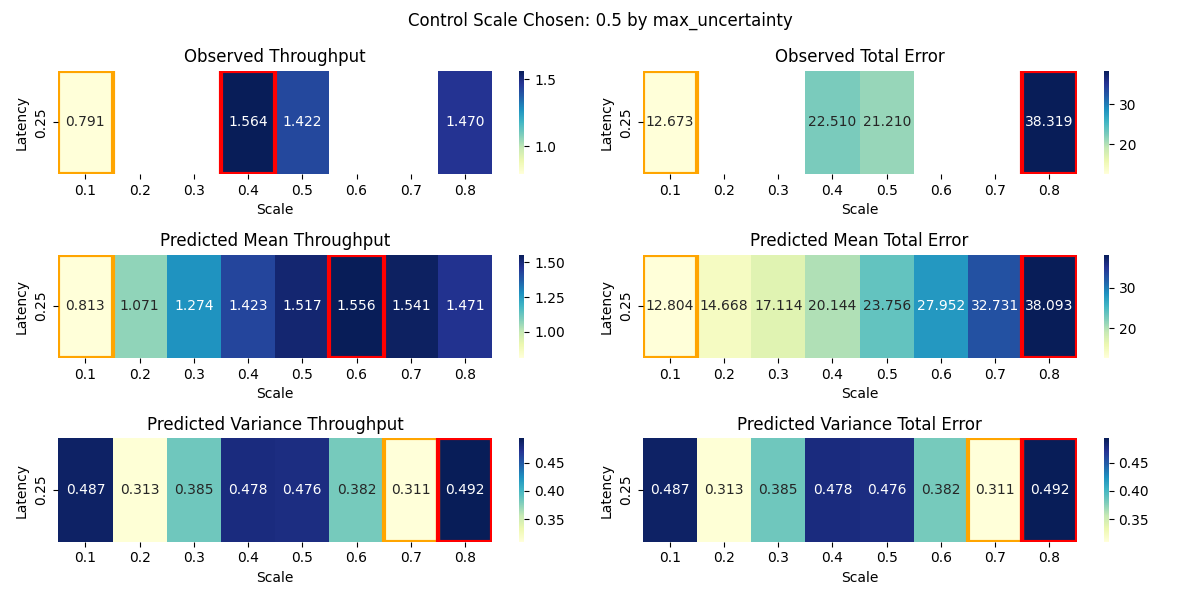
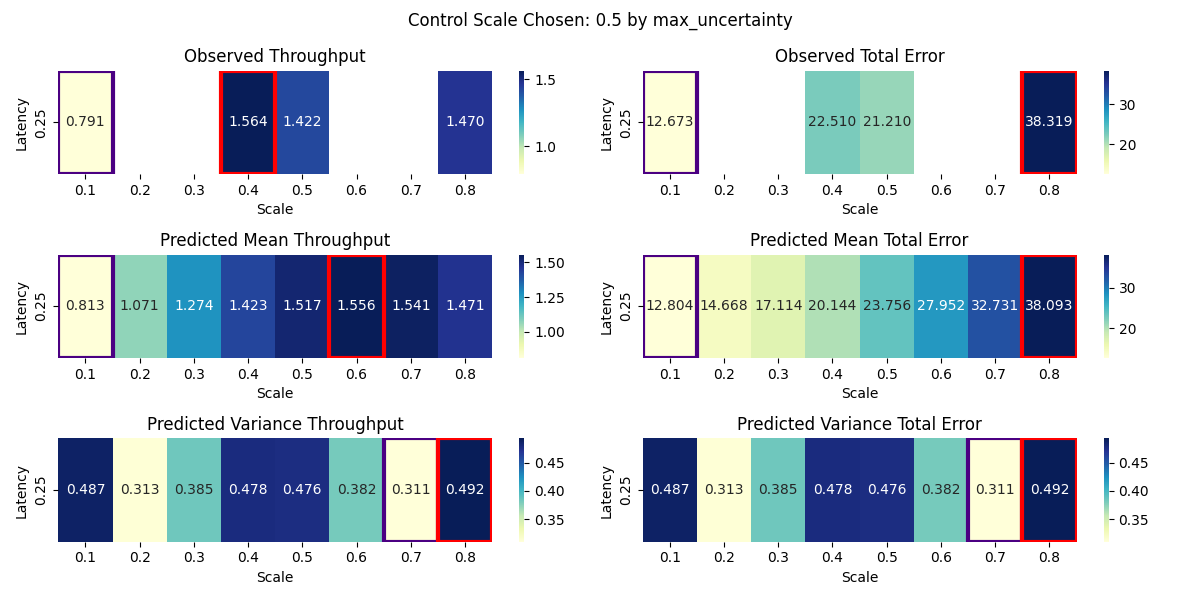
Bug fixes. Added evaluations for max_unc and balanced policies

diff --git a/sim_controller.py b/sim_controller.py
@@ -12,8 +12,10 @@ import itertools
 from models import BayesRegression
 from scaling_policy import ScalingPolicy, BalancedScalingPolicy
 from utils import annotate_extrema
+import os
+import pickle
 
-def visualize_controller(obs_df, prediction_df, iteration, control_scale, policy_choice):
+def visualize_controller(obs_df, prediction_df, iteration, control_scale, policy_choice, save_data_folder):
 	# Define ranges
 	# scale_domain = [0.1, 0.2, 0.3, 0.4, 0.5, 0.6, 0.7, 0.8]
 	# latency_domain = [0.25]
@@ -39,7 +41,7 @@ def visualize_controller(obs_df, prediction_df, iteration, control_scale, policy
 
 	# Throughput Heatmap
 	sparse_throughput_heatmap = sparse_df.pivot(index="latency", columns="scale", values="throughput")
-	sns.heatmap(sparse_throughput_heatmap, cmap='YlGnBu', ax=axes[0, 0], annot=True, fmt="0.3f")
+	sns.heatmap(sparse_throughput_heatmap, cmap='YlGnBu', ax=axes[0, 0], annot=True, fmt="0.3g")
 	axes[0, 0].set_title('Observed Throughput')
 	axes[0, 0].set_xlabel('Scale')
 	axes[0, 0].set_ylabel('Latency')
@@ -48,7 +50,7 @@ def visualize_controller(obs_df, prediction_df, iteration, control_scale, policy
 
 	# Total Error Heatmap
 	sparse_error_heatmap = sparse_df.pivot(index="latency", columns="scale", values="total_error")
-	sns.heatmap(sparse_error_heatmap, cmap='YlGnBu', ax=axes[0, 1], annot=True, fmt="0.3f")
+	sns.heatmap(sparse_error_heatmap, cmap='YlGnBu', ax=axes[0, 1], annot=True, fmt="0.3g")
 	axes[0, 1].set_title('Observed Total Error')
 	axes[0, 1].set_xlabel('Scale')
 	axes[0, 1].set_ylabel('Latency')
@@ -58,7 +60,7 @@ def visualize_controller(obs_df, prediction_df, iteration, control_scale, policy
 
 	# Predicted Heatmaps
 	pred_throughput_heatmap = prediction_df.pivot(index="latency", columns="scale", values="throughput")
-	sns.heatmap(pred_throughput_heatmap, cmap='YlGnBu', ax=axes[1, 0], annot=True, fmt="0.3f")
+	sns.heatmap(pred_throughput_heatmap, cmap='YlGnBu', ax=axes[1, 0], annot=True, fmt="0.3g")
 	axes[1, 0].set_title('Predicted Mean Throughput')
 	axes[1, 0].set_xlabel('Scale')
 	axes[1, 0].set_ylabel('Latency')
@@ -68,7 +70,7 @@ def visualize_controller(obs_df, prediction_df, iteration, control_scale, policy
 
 	# Total Error Heatmap
 	pred_error_heatmap = prediction_df.pivot(index="latency", columns="scale", values="total_error")
-	sns.heatmap(pred_error_heatmap, cmap='YlGnBu', ax=axes[1, 1], annot=True, fmt="0.3f")
+	sns.heatmap(pred_error_heatmap, cmap='YlGnBu', ax=axes[1, 1], annot=True, fmt="0.3g")
 	axes[1, 1].set_title('Predicted Mean Total Error')
 	axes[1, 1].set_xlabel('Scale')
 	axes[1, 1].set_ylabel('Latency')
@@ -78,7 +80,7 @@ def visualize_controller(obs_df, prediction_df, iteration, control_scale, policy
 
 	# Predicted Heatmaps
 	pred_throughput_covar_heatmap = prediction_df.pivot(index="latency", columns="scale", values="throughput_var")
-	sns.heatmap(pred_throughput_covar_heatmap, cmap='YlGnBu', ax=axes[2, 0], annot=True, fmt="0.3f")
+	sns.heatmap(pred_throughput_covar_heatmap, cmap='YlGnBu', ax=axes[2, 0], annot=True, fmt="0.3g")
 	axes[2, 0].set_title('Predicted Variance Throughput')
 	axes[2, 0].set_xlabel('Scale')
 	axes[2, 0].set_ylabel('Latency')
@@ -88,7 +90,7 @@ def visualize_controller(obs_df, prediction_df, iteration, control_scale, policy
 
 	# Total Error Heatmap
 	pred_error_covar_heatmap = prediction_df.pivot(index="latency", columns="scale", values="total_error_var")
-	sns.heatmap(pred_error_covar_heatmap, cmap='YlGnBu', ax=axes[2, 1], annot=True, fmt="0.3f")
+	sns.heatmap(pred_error_covar_heatmap, cmap='YlGnBu', ax=axes[2, 1], annot=True, fmt="0.3g")
 	axes[2, 1].set_title('Predicted Variance Total Error')
 	axes[2, 1].set_xlabel('Scale')
 	axes[2, 1].set_ylabel('Latency')
@@ -97,7 +99,7 @@ def visualize_controller(obs_df, prediction_df, iteration, control_scale, policy
 
 
 	plt.tight_layout()
-	plt.savefig(f"controller_data_files/sim_poly_maxunc/{iteration}.png")
+	plt.savefig(f"{save_data_folder}/{iteration}.png")
 	plt.close()
 
 
@@ -140,8 +142,17 @@ def visualize_controller(obs_df, prediction_df, iteration, control_scale, policy
 # player = "user_jason_new"
 # player_df = all_datasets[player]
 # player_df = player_df[player_df["latency"] == 0.25]
-player_df = pd.read_csv("data_files/user_jason_new/obs_metric_data.csv", index_col=0)
+
+save_data_folder = "controller_data_files/50-50_greedy_max_unc"
+os.makedirs(save_data_folder, exist_ok=True)
+player_df_full = pd.read_csv("data_files/user_jason_new/obs_metric_data.csv", index_col=0)
+player_df_avg = player_df_full.groupby(["latency", "scale"]).mean().reset_index()
+true_optimal_scale_throughput = player_df_avg.loc[player_df_avg.groupby('latency')["throughput"].idxmax()]['scale'].values[0]
+true_optimal_scale_error = player_df_avg.loc[player_df_avg.groupby('latency')["total_error"].idxmax()]['scale'].values[0]
+player_df = player_df_full.copy()
 metric_dict = {}
+mse_scores = {"throughput": [], "total_error": []}
+optimal_scale_errors = {"throughput": [], "total_error": []}
 
 # Initialize model and control policy
 scale_domain = [0.1, 0.2, 0.3, 0.4, 0.5, 0.6, 0.7, 0.8]
@@ -164,7 +175,7 @@ control_scale, policy_choice = policy.random_scale()
 # policy_choice = "random"
 visited = []
 input_latency = 0.25
-for i in range(40): #, input_latency in enumerate(full_latency_list):
+for i in range(38): #, input_latency in enumerate(full_latency_list):
 	print("Iteration ", i)
 	# while True:
 	# 	control_scale = policy.random_scale()
@@ -191,34 +202,46 @@ for i in range(40): #, input_latency in enumerate(full_latency_list):
 	model.train()
 	
 	prediction_dict = model.predict(test_input, prediction_df)
-	
-
-	# # Input Performance Model to Scaling Policy
-	# policy.update(model) 
-
-	# # Visualize
-	visualize_controller(obs_df, prediction_df, i, control_scale, policy_choice)
 
 	# Compute eval metrics
 	test_set = player_df.groupby(["latency", "scale"]).mean().reset_index()
-	mse_scores_throughput = mean_squared_error(prediction_df["throughput"], test_set["throughput"])
+	prediction_df_test = pd.merge(prediction_df, test_set["scale"], on="scale", how="inner")
+	mse_scores_throughput = mean_squared_error(prediction_df_test["throughput"], test_set["throughput"])
+	mse_scores_error = mean_squared_error(prediction_df_test["total_error"], test_set["total_error"])
+	pred_optimal_scale_throughput = prediction_df.loc[prediction_df.groupby('latency')["throughput"].idxmax()]['scale'].values[0]
+	pred_optimal_scale_error = prediction_df.loc[prediction_df.groupby('latency')["total_error"].idxmax()]['scale'].values[0]
+	# optimal_scale_error_throughput = mean_squared_error(true_optimal_scale_throughput, pred_optimal_scale_throughput)
+	# optimal_scale_error_error = mean_squared_error(true_optimal_scale_error, pred_optimal_scale_error)
+	optimal_scale_error_throughput = np.square(true_optimal_scale_throughput - pred_optimal_scale_throughput)
+	optimal_scale_error_error = np.square(true_optimal_scale_error - pred_optimal_scale_error)
+	mse_scores["throughput"].append(mse_scores_throughput)
+	mse_scores["total_error"].append(mse_scores_error)
+	optimal_scale_errors["throughput"].append(optimal_scale_error_throughput)
+	optimal_scale_errors["total_error"].append(optimal_scale_error_error)
 
+	# # Visualize
+	visualize_controller(obs_df, prediction_df, i, control_scale, policy_choice, save_data_folder)
 
 	found_scale = False
-	control_scale, policy_choice = policy.max_unc_scale(prediction_df, metric="throughput")
+	control_scale, policy_choice = policy.get_scale(prediction_df_test, latency=input_latency, metric="throughput")
 	# If chosen control_scale doesn't have any training points left, pick next most uncertain
 	level = 2 
-	while not found_scale:
-		if control_scale in player_df["scale"].value_counts():
-			found_scale = True
-		else:
-			control_scale, policy_choice = policy.max_unc_scale(prediction_df, metric="throughput", level=level)
-			level += 1
+	# while not found_scale:
+	if control_scale not in player_df["scale"].value_counts():
+		found_scale = True
+		# else:
+		# 	control_scale, policy_choice = policy.max_unc_scale(prediction_df, metric="throughput", latency=input_latency, level=level)
+		# 	level += 1
 	
 
 
+### Save evaluation metrics
+eval_data = dict(
+	mse_scores = mse_scores,
+	optimal_scale_errors = optimal_scale_errors
+)
 
-
-	
+with open(f"{save_data_folder}/eval_data.pkl", "wb") as f:
+	pickle.dump(eval_data, f, protocol=pickle.HIGHEST_PROTOCOL)
 
 

diff --git a/scaling_policy.py b/scaling_policy.py
@@ -33,9 +33,9 @@ class ScalingPolicy:
 			return np.nan, "error"
 		
 
-	
-	def optimal_scale(self, prediction_df, metric):
-		optimal_scale = prediction_df.loc[prediction_df.groupby('latency')[metric].idxmax()]['scale'].values[0]
+	def optimal_scale(self, prediction_df, metric, latency):
+		filtered_df = prediction_df[prediction_df['latency'] == latency]
+		optimal_scale = filtered_df.loc[filtered_df[metric].idxmax()]['scale']
 		return optimal_scale, "optimal"
 
 
@@ -44,12 +44,12 @@ class BalancedScalingPolicy(ScalingPolicy):
 	def __init__(self, scale_domain):
 		super().__init__(scale_domain)
 
-	def get_scale(self, prediction_df, metric):
+	def get_scale(self, prediction_df, metric, latency):
 		r = random.random()
-		if r < 0.2:
-			return self.optimal_scale(prediction_df, metric)
-		elif r > 0.8:
-			return self.max_unc_scale(prediction_df, metric)
+		if r < 0.5:
+			return self.optimal_scale(prediction_df, metric, latency)
+		elif r > 0.5:
+			return self.max_unc_scale(prediction_df, metric, latency)
 		else:
 			return self.random_scale()
 		

diff --git a/eval_controller.py b/eval_controller.py
@@ -1,0 +1,29 @@
+import pickle
+import numpy as np
+import matplotlib.pyplot as plt
+
+data_folder = "controller_data_files/50-50_greedy_max_unc"
+with open(f"{data_folder}/eval_data.pkl", "rb") as f:
+    eval_data = pickle.load(f)
+
+mse_scores = eval_data["mse_scores"]
+optimal_scale_errors = eval_data["optimal_scale_errors"]
+
+fig, axes = plt.subplots(2, 2)
+fig.suptitle("Evaluation Metrics for Max Uncertainty Policy")
+
+axes[0, 0].plot(mse_scores["throughput"])
+axes[0, 0].set_title("MSE for Throughput")
+
+axes[0, 1].plot(mse_scores["total_error"])
+axes[0, 1].set_title("MSE for Total Error")
+
+axes[1, 0].plot(optimal_scale_errors["throughput"])
+axes[1, 0].set_title("Optimal Scale Error for Throughput")
+
+axes[1, 1].plot(optimal_scale_errors["total_error"])
+axes[1, 1].set_title("Optimal Scale Error for Total Error")
+
+plt.tight_layout()
+plt.savefig(f"{data_folder}/eval_metric_plot.png")
+plt.show()

diff --git a/utils.py b/utils.py
@@ -78,7 +78,7 @@ def annotate_extrema(data, ax, extrema_type='max'):
         color = 'red'
     if extrema_type == 'min':
         extrema_index = np.nanargmin(data, axis=1)
-        color = 'indigo'
+        color = 'green'
     for i, max_col in enumerate(extrema_index):
         ax.add_patch(plt.Rectangle((max_col, i), 1, 1, fill=False, edgecolor=color, lw=3))
 
